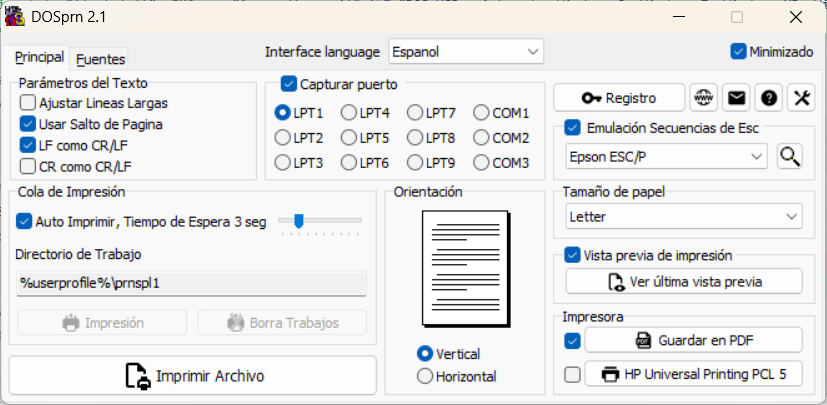
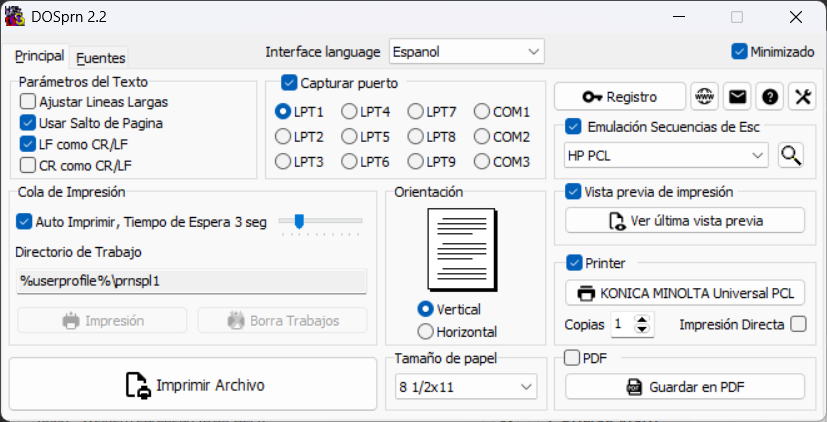
v220

diff --git a/readme.htm b/readme.htm
@@ -1,5 +1,5 @@
 <!DOCTYPE HTML PUBLIC "-//W3C//DTD HTML 4.0 Transitional//EN">
-<HTML><HEAD><link rel="canonical" href="https://spanish.dosprn.com/readme.htm" /><TITLE>Manual de DOSPRN 2.1 y descripción de sus principales características</TITLE>
+<HTML><HEAD><link rel="canonical" href="https://spanish.dosprn.com/readme.htm" /><TITLE>Manual de DOSPRN 2.2 y descripción de sus principales características</TITLE>
 <META http-equiv=Content-Type content="text/html; charset=utf-8">
 <META http-equiv=Content-Language content=en-us>
 <META name=Keywords  content="DOS, printers, program, print, printer, USB, programs, LPT, DOS program, software, national, language, internanional" >
@@ -19,7 +19,7 @@
 <TABLE cellSpacing=0 cellPadding=6 width=50% style="max-width:640px" border=0>
   <TR>
     <TD width=100%>
-      <div style="float:left"><IMG src="images/logo.gif" ALT="DOS USB print under Windows 8, Windows 7, Windows XP, Windows2000, Windows98"> <font size="5"><b>&nbsp;DOSPRN&nbsp;2.1&nbsp;</b></font></div>
+      <div style="float:left"><IMG src="images/logo.gif" ALT="DOS USB print under Windows 8, Windows 7, Windows XP, Windows2000, Windows98"> <font size="5"><b>&nbsp;DOSPRN&nbsp;2.2&nbsp;</b></font></div>
   
       <table border="2" bgcolor="#C0C0C0" cellpadding="4" cellspacing="4">
         <tr>
@@ -55,7 +55,7 @@
       <P align=justify>DOSPRN se distribuye como <B>Shareware.</B> Puede aprender a usar DOSPRN durante el tiempo de prueba. Después de este período, debe registrar su copia o eliminarla completamente de su computadora con la utilidad de desinstalación en el Grupo de programas de la DOSPRN.</P>
       <h1 align=justify>Instalación</H3>
       <P align=justify>Descargue y ejecute el archivo autoextraíble <I>
-      <a href="https://www.dosprn.com/DOSprn210.exe">DOSprn210.exe</a></I>. 
+      <a href="https://www.dosprn.com/DOSprn220.exe">DOSprn220.exe</a></I>. 
       Se le harán algunas preguntas simples. Durante la instalación, DOSPRN copia todos los archivos y accesos directos necesarios en su computadora.</P>
       <h1 align=justify>Inicio del programa</H3>Puede iniciar DOSPRN haciendo clic en un acceso directo en su escritorio o en la carpeta 'Inicio' (en caso de que haya seleccionado esta opción durante la instalación). Después de iniciar DOSPRN, puede encontrar su icono en el área de la bandeja (cerca del reloj del sistema, generalmente en la esquina inferior derecha). <IMG src="images/trayw8.gif" ALT="Display icon and progress of printing in tray area" align=absMiddle border=0> DOSPRN listo para trabajar ahora. 
 

diff --git a/download.htm b/download.htm
@@ -1,5 +1,5 @@
 <!DOCTYPE HTML PUBLIC "-//W3C//DTD HTML 4.0 Transitional//EN">
-<HTML><HEAD><link rel="canonical" href="https://spanish.dosprn.com/download.htm" /><TITLE>Descarga DOSPRN 2.1 ahora gratis</TITLE>
+<HTML><HEAD><link rel="canonical" href="https://spanish.dosprn.com/download.htm" /><TITLE>Descarga DOSPRN 2.2 ahora gratis</TITLE>
 <META http-equiv=Content-Language content=en-us>
 <META http-equiv=Content-Type content="text/html; charset=utf-8">
 <META name=Keywords content="dos print usb, dos print download, dos printer, dos usb driver, dos print command, DOS, printers, printer USB, LPT, DOS program" >
@@ -19,7 +19,7 @@
 <TABLE cellSpacing=0 cellPadding=6 width=50% style="max-width:640px" border=0>
   <TR>
     <TD width=100%>
-      <div style="float:left"><IMG src="images/logo.gif" ALT="DOS USB print under Windows 10, Windows 8, Windows 7, Windows XP, Windows2000, Windows98"> <font size="5"><b>&nbsp;DOSPRN&nbsp;2.1&nbsp;</b></font></div>
+      <div style="float:left"><IMG src="images/logo.gif" ALT="DOS USB print under Windows 10, Windows 8, Windows 7, Windows XP, Windows2000, Windows98"> <font size="5"><b>&nbsp;DOSPRN&nbsp;2.2&nbsp;</b></font></div>
   
       <table border="2" bgcolor="#C0C0C0" cellpadding="4" cellspacing="4">
         <tr>
@@ -53,9 +53,9 @@
       <p>DOSPRN es un shareware completamente funcional. Está diseñado para admitir la impresión desde aplicaciones DOS. Puede hacer uso de todas las <b>características</b> de DOSPRN antes de comprar. Debe estar convencido de que DOSPRN puede resolver su problema con la impresión de DOS antes de <a href="order.htm">comprar</a>.</p> <p>Le recomendamos encarecidamente que revise a fondo el <a href="readme.htm">manual de DOSPRN</a> y nuestras <a href="faq.htm">FAQ</a>.<br>
       <br>
 
-      <a href="https://www.dosprn.com/DOSprn210.exe">
+      <a href="https://update.dosprn.com/DOSprn220.exe">
 
-      <center>Clic aquí y descargue el archivo <i>DOSprn210.exe (2.0 Mb)</i></a></center>
+      <center>Clic aquí y descargue el archivo <i>DOSprn220.exe (2.4 Mb)</i></a></center>
 		<br>
       <br>
       DOSPRN le recordará el registro cada vez que imprima un informe desde su aplicación DOS. Si tiene alguna pregunta sobre la DOSPRN, no dude en <a href="mailto:support&#064dosprn.com">contactarnos</a>.</p>

diff --git a/login.htm b/login.htm
@@ -1,5 +1,5 @@
 <!DOCTYPE HTML PUBLIC "-//W3C//DTD HTML 4.0 Transitional//EN">
-<HTML><HEAD><link rel="canonical" href="https://spanish.dosprn.com/login.htm" /><TITLE>Inicio de sesión de usuarios registrados de DOSPRN 2.1</TITLE>
+<HTML><HEAD><link rel="canonical" href="https://spanish.dosprn.com/login.htm" /><TITLE>Inicio de sesión de usuarios registrados de DOSPRN 2.2</TITLE>
 <META http-equiv=Content-Language content=en-us>
 <META http-equiv=Content-Type content="text/html; charset=windows-1252">
 <META name=Keywords  content="dos printer driver, dos printer, dos usb driver, dos print command, DOS, printers, program, print, printer, USB, programs, LPT, DOS program, software, national, language, internanional" >
@@ -72,7 +72,7 @@ input {
 <TABLE cellSpacing=0 cellPadding=6 width=50% style="max-width:640px" border=0>
   <TR>
     <TD width=100%>
-      <div style="float:left"><IMG src="images/logo.gif" ALT="DOS USB print under Windows 8, Windows 7, Windows XP, Windows2000, Windows98"> <font size="5"><b>&nbsp;DOSPRN&nbsp;2.1&nbsp;</b></font></div>
+      <div style="float:left"><IMG src="images/logo.gif" ALT="DOS USB print under Windows 8, Windows 7, Windows XP, Windows2000, Windows98"> <font size="5"><b>&nbsp;DOSPRN&nbsp;2.2&nbsp;</b></font></div>
   
       <table border="2" bgcolor="#C0C0C0" cellpadding="4" cellspacing="4">
         <tr>
@@ -94,7 +94,7 @@ input {
       <HR><font size="+1">
       <A href="dos-print.htm">About</A> &nbsp;||&nbsp; <A 
       href="readme.htm">Manual</A> &nbsp;||&nbsp; <A href="news.htm">What's New</A> &nbsp;||&nbsp; <A 
-      href="download.htm"><img src="images/new.png" alt="DOSPRN 2.1 release" />Download</A> &nbsp;||&nbsp; <A href="vox.htm">Vox populi</A> &nbsp;||&nbsp; <A href="order.htm">Order</A> &nbsp;||&nbsp; <A
+      href="download.htm"><img src="images/new.png" alt="DOSPRN 2.2 release" />Download</A> &nbsp;||&nbsp; <A href="vox.htm">Vox populi</A> &nbsp;||&nbsp; <A href="order.htm">Order</A> &nbsp;||&nbsp; <A
       href="faq.htm">FAQ</A> &nbsp;||&nbsp; <A href="story.htm">Story</A> &nbsp;||&nbsp; <A href="mailto:support&#064dosprn.com?Subject=DOSPRN&#032support">
       Support</A> &nbsp;||&nbsp; <A href="login.htm">Login</A>
       </font><HR>

diff --git a/news.htm b/news.htm
@@ -1,5 +1,5 @@
 <!DOCTYPE HTML PUBLIC "-//W3C//DTD HTML 4.0 Transitional//EN">
-<HTML><HEAD><link rel="canonical" href="https://spanish.dosprn.com/news.htm" /><TITLE>DOSPRN 2.1 sección de novedades y correcciones de errores</TITLE>
+<HTML><HEAD><link rel="canonical" href="https://spanish.dosprn.com/news.htm" /><TITLE>DOSPRN 2.2 sección de novedades y correcciones de errores</TITLE>
 <META http-equiv=Content-Language content=en-us>
 <META http-equiv=Content-Type content="text/html; charset=utf-8">
 <META name=Keywords  content="dos print news, dos printer driver, dos printer, dos usb driver, dos print command, DOS, printers, program, print, printer, USB, programs, LPT, DOS program, software, national, language, internanional" >
@@ -20,7 +20,7 @@
 <TABLE cellSpacing=0 cellPadding=6 width=50% style="max-width:640px" border=0>
   <TR>
     <TD width=100%>
-      <div style="float:left"><IMG src="images/logo.gif" ALT="DOS USB print under Windows 8, Windows 7, Windows XP, Windows2000, Windows98"> <font size="5"><b>&nbsp;DOSPRN&nbsp;2.1&nbsp;</b></font></div>
+      <div style="float:left"><IMG src="images/logo.gif" ALT="DOS USB print under Windows 8, Windows 7, Windows XP, Windows2000, Windows98"> <font size="5"><b>&nbsp;DOSPRN&nbsp;2.2&nbsp;</b></font></div>
   
       <table border="2" bgcolor="#C0C0C0" cellpadding="4" cellspacing="4">
         <tr>
@@ -51,6 +51,13 @@
   <TR>
     <TD width="100%">
       <h1>Lo que es nuevo</H3>
+      <P><B>Versión 2.2</B></P>
+      + Incrustar fuentes en un PDF<br>
+      + Nueva opción de línea de comandos <a href="command-line.htm">&quot;embedfontpdf&quot;</a><br>
+      + Nueva función de conteo de "Copias"<br>
+      + Nueva función de "Modo de impresión sin formato", útil para impresoras matriciales<br>
+      + Nueva página de códigos "Farsi (7 bits)" <a href="codepages.htm"></a><br>
+      * La longitud del código QR sin formato incrustado se ha aumentado hasta 1000 símbolos</a><br>
       <P><B>Versión 2.1</B></P>
       + Plantilla de nombre de archivo <a href="pdf-settings.htm">Imprimir a PDF</a> mejorada<br>
       + Integración mejorada con DOSBOX-X<br>

diff --git a/order.htm b/order.htm
@@ -1,5 +1,5 @@
 <!DOCTYPE HTML PUBLIC "-//W3C//DTD HTML 4.0 Transitional//EN">
-<HTML><HEAD><link rel="canonical" href="https://spanish.dosprn.com/order.htm" /><TITLE>Solicite DOSPRN 2.1 en línea. Ofrecemos descuentos al por mayor.</TITLE>
+<HTML><HEAD><link rel="canonical" href="https://spanish.dosprn.com/order.htm" /><TITLE>Solicite DOSPRN 2.2 en línea. Ofrecemos descuentos al por mayor.</TITLE>
 <META http-equiv=Content-Language content=en-us>
 <META http-equiv=Content-Type content="text/html; charset=utf-8">
 <META name=Keywords content="DOS print order, DOS2usb purchase, DOS printers, program, print, printer, DOS USB, programs, LPT, DOS program, DOS software">
@@ -20,7 +20,7 @@
 <TABLE cellSpacing=0 cellPadding=6 width=50% style="max-width:640px" border=0>
   <TR>
     <TD width=100%>
-      <div style="float:left"><IMG src="images/logo.gif" ALT="DOS USB print under Windows 8, Windows 7, Windows XP, Windows2000, Windows98"> <font size="5"><b>&nbsp;DOSPRN&nbsp;2.1&nbsp;</b></font></div>
+      <div style="float:left"><IMG src="images/logo.gif" ALT="DOS USB print under Windows 8, Windows 7, Windows XP, Windows2000, Windows98"> <font size="5"><b>&nbsp;DOSPRN&nbsp;2.2&nbsp;</b></font></div>
   
       <table border="2" bgcolor="#C0C0C0" cellpadding="4" cellspacing="4">
         <tr>
@@ -67,7 +67,7 @@ Después del vencimiento del período de prueba, debe registrar este programa.</
 
       <P>
       If your DOSPRN's trial period has been expired now you can download and install
-      a <a href="https://www.dosprn.com/DOSprn210.exe">special "vacation" build</a> of DOSPRN 2.1. The trial period will be 
+      a <a href="https://www.dosprn.com/DOSprn220.exe">special "vacation" build</a> of DOSPRN 2.2. The trial period will be 
       expanded up to August, 1.
       </P>
 -->

diff --git a/vox.htm b/vox.htm
@@ -1,5 +1,5 @@
 <!DOCTYPE HTML PUBLIC "-//W3C//DTD HTML 4.0 Transitional//EN">
-<HTML><HEAD><link rel="canonical" href="https://spanish.dosprn.com/vox.htm" /><TITLE>Testimonios y rese�as de usuarios de DOSPRN 2.1</TITLE>
+<HTML><HEAD><link rel="canonical" href="https://spanish.dosprn.com/vox.htm" /><TITLE>Testimonios y rese�as de usuarios de DOSPRN 2.2</TITLE>
 <META http-equiv=Content-Language content=en-us>
 <META http-equiv=Content-Type content="text/html; charset=utf-8">
 <META name=Description content="What spoke ordinary users and writers in technical reviews about DOSPRN software">
@@ -20,7 +20,7 @@
 <TABLE cellSpacing=0 cellPadding=6 width=50% style="max-width:640px" border=0>
   <TR>
     <TD width=100%>
-      <div style="float:left"><IMG src="images/logo.gif" ALT="DOS USB print under Windows 8, Windows 7, Windows XP, Windows2000, Windows98"> <font size="5"><b>&nbsp;DOSPRN&nbsp;2.1&nbsp;</b></font></div>
+      <div style="float:left"><IMG src="images/logo.gif" ALT="DOS USB print under Windows 8, Windows 7, Windows XP, Windows2000, Windows98"> <font size="5"><b>&nbsp;DOSPRN&nbsp;2.2&nbsp;</b></font></div>
   
       <table border="2" bgcolor="#C0C0C0" cellpadding="4" cellspacing="4">
         <tr>
@@ -150,7 +150,7 @@
           </td>
         </tr>
         <tr>
-          <td><i>Francis G. McCloskey &lt;FrFrancis&#64;OhSaratoga.com&gt;</i><p>&quot;...A small bunch of us are still using DOSPRN 2.1 with out DOS EnableOA program and think it's 
+          <td><i>Francis G. McCloskey &lt;FrFrancis&#64;OhSaratoga.com&gt;</i><p>&quot;...A small bunch of us are still using DOSPRN 2.2 with out DOS EnableOA program and think it's 
 	  the best DOS to Windows printers program out there..........&quot;</p>
           <hr width="90%" color="#008000">
           </td>

diff --git a/eula.htm b/eula.htm
@@ -20,7 +20,7 @@
 <TABLE cellSpacing=0 cellPadding=6 width=50% style="max-width:640px" border=0>
   <TR>
     <TD width=100%>
-      <div style="float:left"><IMG src="images/logo.gif" ALT="DOS USB print under Windows 8, Windows 7, Windows XP, Windows2000, Windows98"> <font size="5"><b>&nbsp;DOSPRN&nbsp;2.1&nbsp;</b></font></div>
+      <div style="float:left"><IMG src="images/logo.gif" ALT="DOS USB print under Windows 8, Windows 7, Windows XP, Windows2000, Windows98"> <font size="5"><b>&nbsp;DOSPRN&nbsp;2.2&nbsp;</b></font></div>
   
       <table border="2" bgcolor="#C0C0C0" cellpadding="4" cellspacing="4">
         <tr>
@@ -43,7 +43,7 @@
       <HR><font size="+1">
       <A href="dos-print.htm">About</A> &nbsp;||&nbsp; <A 
       href="readme.htm">Manual</A> &nbsp;||&nbsp; <A href="news.htm">What's New</A> &nbsp;||&nbsp; <A 
-      href="download.htm"><img src="images/new.png" alt="DOSPRN 2.1 pre-release" />Download</A> &nbsp;||&nbsp; <A href="vox.htm">Vox populi</A> &nbsp;||&nbsp; <A href="order.htm">Order</A> &nbsp;||&nbsp; <A
+      href="download.htm"><img src="images/new.png" alt="DOSPRN 2.2 pre-release" />Download</A> &nbsp;||&nbsp; <A href="vox.htm">Vox populi</A> &nbsp;||&nbsp; <A href="order.htm">Order</A> &nbsp;||&nbsp; <A
       href="faq.htm">FAQ</A> &nbsp;||&nbsp; <A href="story.htm">Story</A> &nbsp;||&nbsp; <A href="mailto:support&#064dosprn.com?Subject=DOSPRN&#032support">
       Support</A> &nbsp;||&nbsp; <A href="login.htm">Login</A>
       </font><HR>

diff --git a/privacy.htm b/privacy.htm
@@ -20,7 +20,7 @@
 <TABLE cellSpacing=0 cellPadding=6 width=50% style="max-width:640px" border=0>
   <TR>
     <TD width=100%>
-      <div style="float:left"><IMG src="images/logo.gif" ALT="DOS USB print under Windows 8, Windows 7, Windows XP, Windows2000, Windows98"> <font size="5"><b>&nbsp;DOSPRN&nbsp;2.1&nbsp;</b></font></div>
+      <div style="float:left"><IMG src="images/logo.gif" ALT="DOS USB print under Windows 8, Windows 7, Windows XP, Windows2000, Windows98"> <font size="5"><b>&nbsp;DOSPRN&nbsp;2.2&nbsp;</b></font></div>
   
       <table border="2" bgcolor="#C0C0C0" cellpadding="4" cellspacing="4">
         <tr>
@@ -43,7 +43,7 @@
       <HR><font size="+1">
       <A href="dos-print.htm">About</A> &nbsp;||&nbsp; <A 
       href="readme.htm">Manual</A> &nbsp;||&nbsp; <A href="news.htm">What's New</A> &nbsp;||&nbsp; <A 
-      href="download.htm"><img src="images/new.png" alt="DOSPRN 2.1 pre-release" />Download</A> &nbsp;||&nbsp; <A href="vox.htm">Vox populi</A> &nbsp;||&nbsp; <A href="order.htm">Order</A> &nbsp;||&nbsp; <A
+      href="download.htm"><img src="images/new.png" alt="DOSPRN 2.2 pre-release" />Download</A> &nbsp;||&nbsp; <A href="vox.htm">Vox populi</A> &nbsp;||&nbsp; <A href="order.htm">Order</A> &nbsp;||&nbsp; <A
       href="faq.htm">FAQ</A> &nbsp;||&nbsp; <A href="story.htm">Story</A> &nbsp;||&nbsp; <A href="mailto:support&#064dosprn.com?Subject=DOSPRN&#032support">
       Support</A> &nbsp;||&nbsp; <A href="login.htm">Login</A>
       </font><HR>

diff --git a/sequences.htm b/sequences.htm
@@ -1,5 +1,5 @@
 <!DOCTYPE HTML PUBLIC "-//W3C//DTD HTML 4.0 Transitional//EN">
-<HTML><HEAD><link rel="canonical" href="https://spanish.dosprn.com/sequences.htm" /><TITLE>Secuencias ESC compatibles con DOSPRN 2.1</TITLE>
+<HTML><HEAD><link rel="canonical" href="https://spanish.dosprn.com/sequences.htm" /><TITLE>Secuencias ESC compatibles con DOSPRN 2.2</TITLE>
 <META http-equiv=Content-Type content="text/html; charset=utf-8">
 <META name=Keywords  content="dos printer driver, dos printer, dos usb driver, dos print command, DOS, printers, program, print, printer, USB, programs, LPT, DOS program, software, national, language, internanional" >
 <META name=Description  content="DOSPRN allow to use your old favorite DOS program with new printers independently of their types (yes, and USB also !)" >
@@ -19,7 +19,7 @@
 <TABLE cellSpacing=0 cellPadding=6 width=50% style="max-width:640px" border=0>
 <TR>
 	<TD width=100%>
-	<div style="float:left"><IMG src="images/logo.gif" ALT="DOS USB print under Windows 8, Windows 7, Windows XP, Windows2000, Windows98"> <font size="5"><b>&nbsp;DOSPRN&nbsp;2.1&nbsp;</b></font></div>
+	<div style="float:left"><IMG src="images/logo.gif" ALT="DOS USB print under Windows 8, Windows 7, Windows XP, Windows2000, Windows98"> <font size="5"><b>&nbsp;DOSPRN&nbsp;2.2&nbsp;</b></font></div>
   
 	<table border="2" bgcolor="#C0C0C0" cellpadding="4" cellspacing="4">
         <tr>

diff --git a/inline-qrcode.htm b/inline-qrcode.htm
@@ -1,5 +1,5 @@
 <!DOCTYPE HTML PUBLIC "-//W3C//DTD HTML 4.0 Transitional//EN">
-<HTML><HEAD><link rel="canonical" href="https://spanish.dosprn.com/inline-qrcode.htm" /><TITLE>DOSPRN 2.1 qrcode en línea permite crear códigos QR</TITLE>
+<HTML><HEAD><link rel="canonical" href="https://spanish.dosprn.com/inline-qrcode.htm" /><TITLE>DOSPRN 2.2 qrcode en línea permite crear códigos QR</TITLE>
 <META http-equiv=Content-Language content=en-us>
 <META http-equiv=Content-Type content="text/html; charset=utf-8">
 <META name=Keywords  content="inline qrcode, DOS report bitmap, dos print command, DOS, printers, program, print, printer, USB, programs, LPT, DOS program, software, national, language, qr-code" >
@@ -20,7 +20,7 @@
 <TABLE cellSpacing=0 cellPadding=6 width=50% style="max-width:640px" border=0>
   <TR>
     <TD width=100%>
-      <div style="float:left"><IMG src="images/logo.gif" ALT="DOS USB print under Windows 11, Windows 10, Windows 8, Windows 7, Windows XP, Windows2000, Windows98"> <font size="5"><b>&nbsp;DOSPRN&nbsp;2.1&nbsp;</b></font></div>
+      <div style="float:left"><IMG src="images/logo.gif" ALT="DOS USB print under Windows 11, Windows 10, Windows 8, Windows 7, Windows XP, Windows2000, Windows98"> <font size="5"><b>&nbsp;DOSPRN&nbsp;2.2&nbsp;</b></font></div>
   
       <table border="2" bgcolor="#C0C0C0" cellpadding="4" cellspacing="4">
         <tr>

diff --git a/dosprint.htm b/dosprint.htm
@@ -22,7 +22,7 @@
 <TABLE cellSpacing=0 cellPadding=6 width=50% style="max-width:640px" border=0>
   <TR>
     <TD width=100%>
-      <div style="float:left"><IMG src="images/logo.gif" ALT="DOS USB print under Windows 8, Windows 7, Windows XP, Windows2000, Windows98"> <font size="5"><b>&nbsp;DOSPRN&nbsp;2.1&nbsp;</b></font></div>
+      <div style="float:left"><IMG src="images/logo.gif" ALT="DOS USB print under Windows 8, Windows 7, Windows XP, Windows2000, Windows98"> <font size="5"><b>&nbsp;DOSPRN&nbsp;2.2&nbsp;</b></font></div>
   
       <table border="2" bgcolor="#C0C0C0" cellpadding="4" cellspacing="4">
         <tr>
@@ -58,7 +58,7 @@
       <P>DOSPRN ayuda a extender la vida de los viejos programas de DOS. Este programa le permite imprimir informes desde un buen programa antiguo de DOS en <b>nuevas impresoras</b> independientemente de sus tipos (Sí, USB y impresoras de red, servidores de impresión e impresoras PDF también).</P>
       <P align=center><IMG height=150 src="images/fontsw8.png" ALT="Windows TrueType fonts selectable" width=291></P>
       <P>DOSPRN se distribuye como shareware. Descargalo <I><B>
-      <A href="https://www.dosprn.com/DOSprn210.exe">
+      <A href="https://www.dosprn.com/DOSprn220.exe">
       AHORA</A></B></I> y haga que DOS imprima sin dos2usb libre.
       </P></TD></TR>
   <TR>

diff --git a/story.htm b/story.htm
@@ -1,5 +1,5 @@
 <!DOCTYPE HTML PUBLIC "-//W3C//DTD HTML 4.0 Transitional//EN">
-<HTML><HEAD><link rel="canonical" href="https://spanish.dosprn.com/story.htm" /><TITLE>Nuestra misión. Historia de la impresión DOSPRN 2.1</TITLE>
+<HTML><HEAD><link rel="canonical" href="https://spanish.dosprn.com/story.htm" /><TITLE>Nuestra misión. Historia de la impresión DOSPRN 2.2</TITLE>
 <META http-equiv=Content-Language content=en-us>
 <META http-equiv=Content-Type content="text/html; charset=utf-8">
 <META name=Keywords  content="DOS reports, printing story, dos usb driver, dos print command, DOS, printers, program, print, printer, USB, programs, LPT, DOS program, software, national, language, internanional" >
@@ -20,7 +20,7 @@
 <TABLE cellSpacing=0 cellPadding=6 width=50% style="max-width:640px" border=0>
   <TR>
     <TD width=100%>
-      <div style="float:left"><IMG src="images/logo.gif" ALT="DOS USB print under Windows 8, Windows 7, Windows XP, Windows2000, Windows98"> <font size="5"><b>&nbsp;DOSPRN&nbsp;2.1&nbsp;</b></font></div>
+      <div style="float:left"><IMG src="images/logo.gif" ALT="DOS USB print under Windows 8, Windows 7, Windows XP, Windows2000, Windows98"> <font size="5"><b>&nbsp;DOSPRN&nbsp;2.2&nbsp;</b></font></div>
   
       <table border="2" bgcolor="#C0C0C0" cellpadding="4" cellspacing="4">
         <tr>
